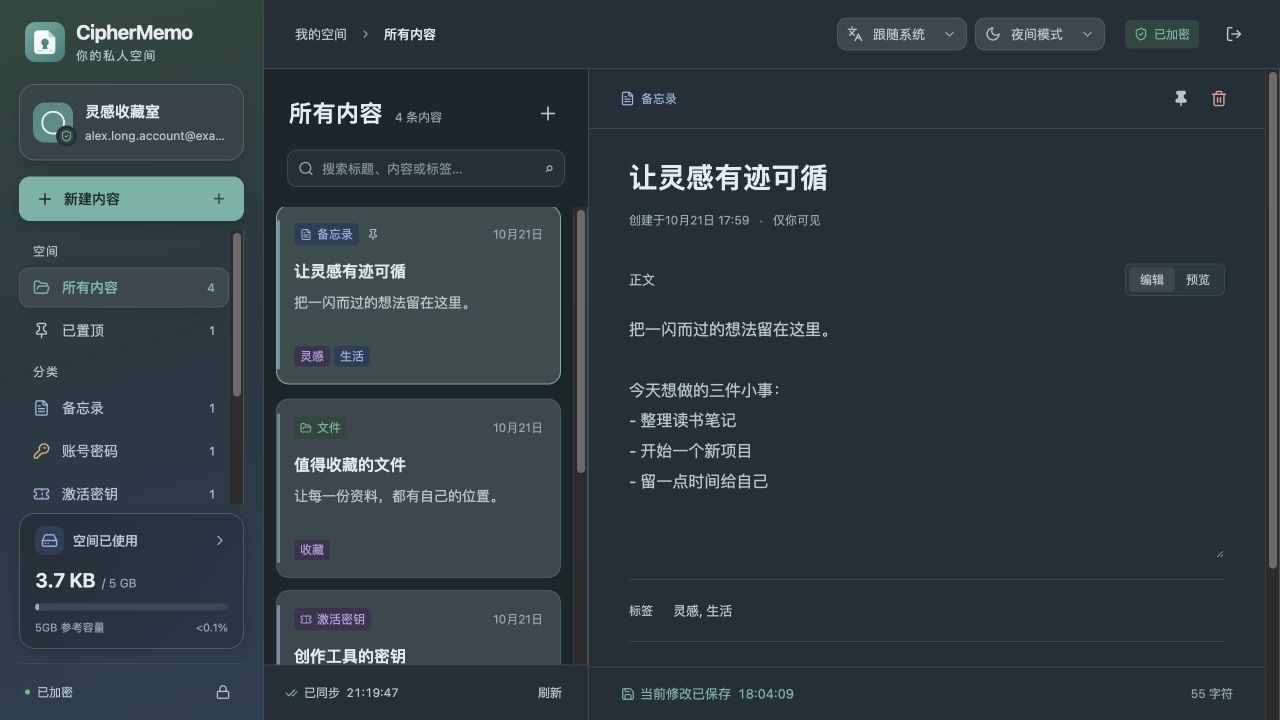
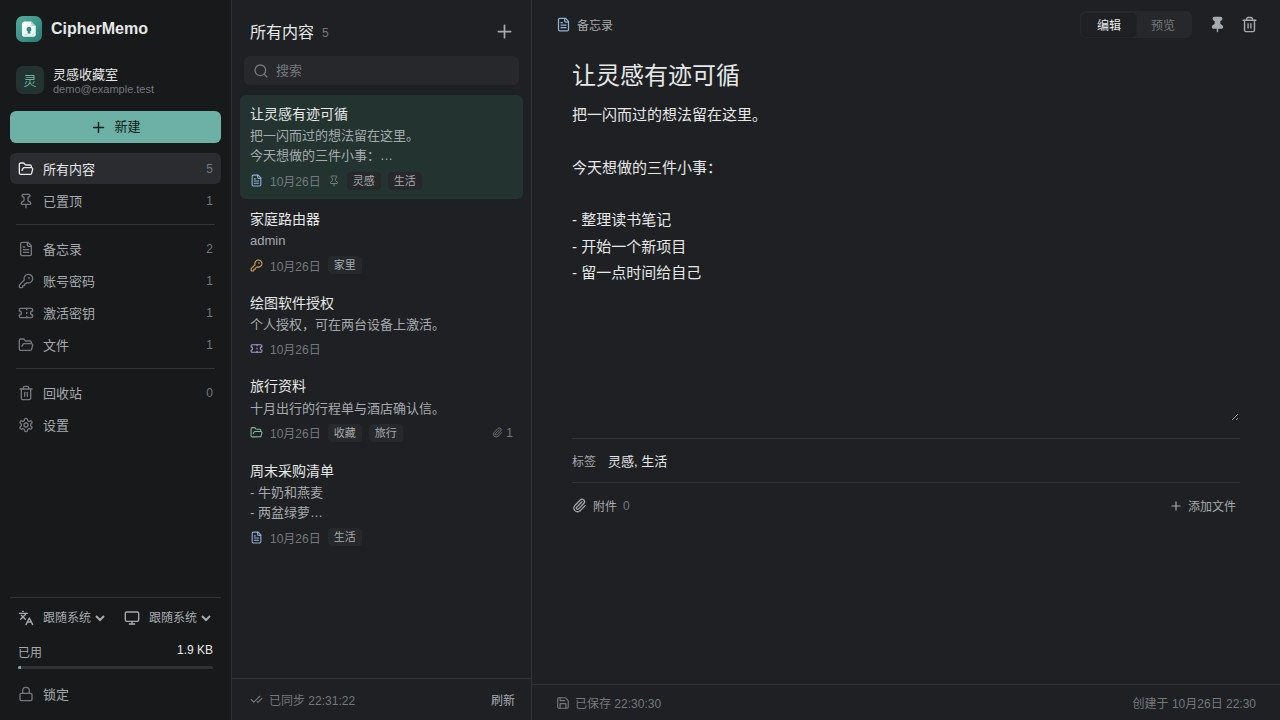
docs: refresh screenshots and UI descriptions for the new interface
Retake the light and dark workspace screenshots from a fresh local
space with fictional demo content, and update README and branding notes
that still described the old layout and colours.

Also collapse blank lines in list previews, so a note whose body starts
with a paragraph break no longer shows an empty second line.

diff --git a/src/client/App.tsx b/src/client/App.tsx
@@ -1596,6 +1596,7 @@ export default function App() {
                     n.content.kind === 'credential' ? n.content.username || '' : n.content.body
                   )
                     .trim()
+                    .replace(/\n\s*\n+/g, '\n')
                     .slice(0, 100);
                   return (
                     <button

diff --git a/README.md b/README.md
@@ -45,12 +45,12 @@ CipherMemo 把日常记录与需要妥善保管的内容放在一起：一条想
 
 <picture>
   <source media="(prefers-color-scheme: dark)" srcset="docs/images/workspace-dark.jpg">
-  <img src="docs/images/workspace-light.jpg" alt="CipherMemo 工作台：分类导航、备忘录列表、Markdown 编辑器和用量进度条" width="100%">
+  <img src="docs/images/workspace-light.jpg" alt="CipherMemo 工作台：侧边栏分类导航与用量、内容列表、Markdown 编辑器" width="100%">
 </picture>
 
-| 日间与夜间                                     | 个性化空间                               |
-| ---------------------------------------------- | ---------------------------------------- |
-| 默认跟随系统，也可手动切换；中英文偏好会保留。 | 点击空间卡片，修改昵称、上传或移除头像。 |
+| 日间与夜间                                                 | 个性化空间                                           |
+| ---------------------------------------------------------- | ---------------------------------------------------- |
+| 默认跟随系统，也可在侧边栏底部切换；语言与主题偏好会保留。 | 点击侧边栏顶部的空间名称，修改昵称、上传或移除头像。 |
 
 ## 功能概览
 
